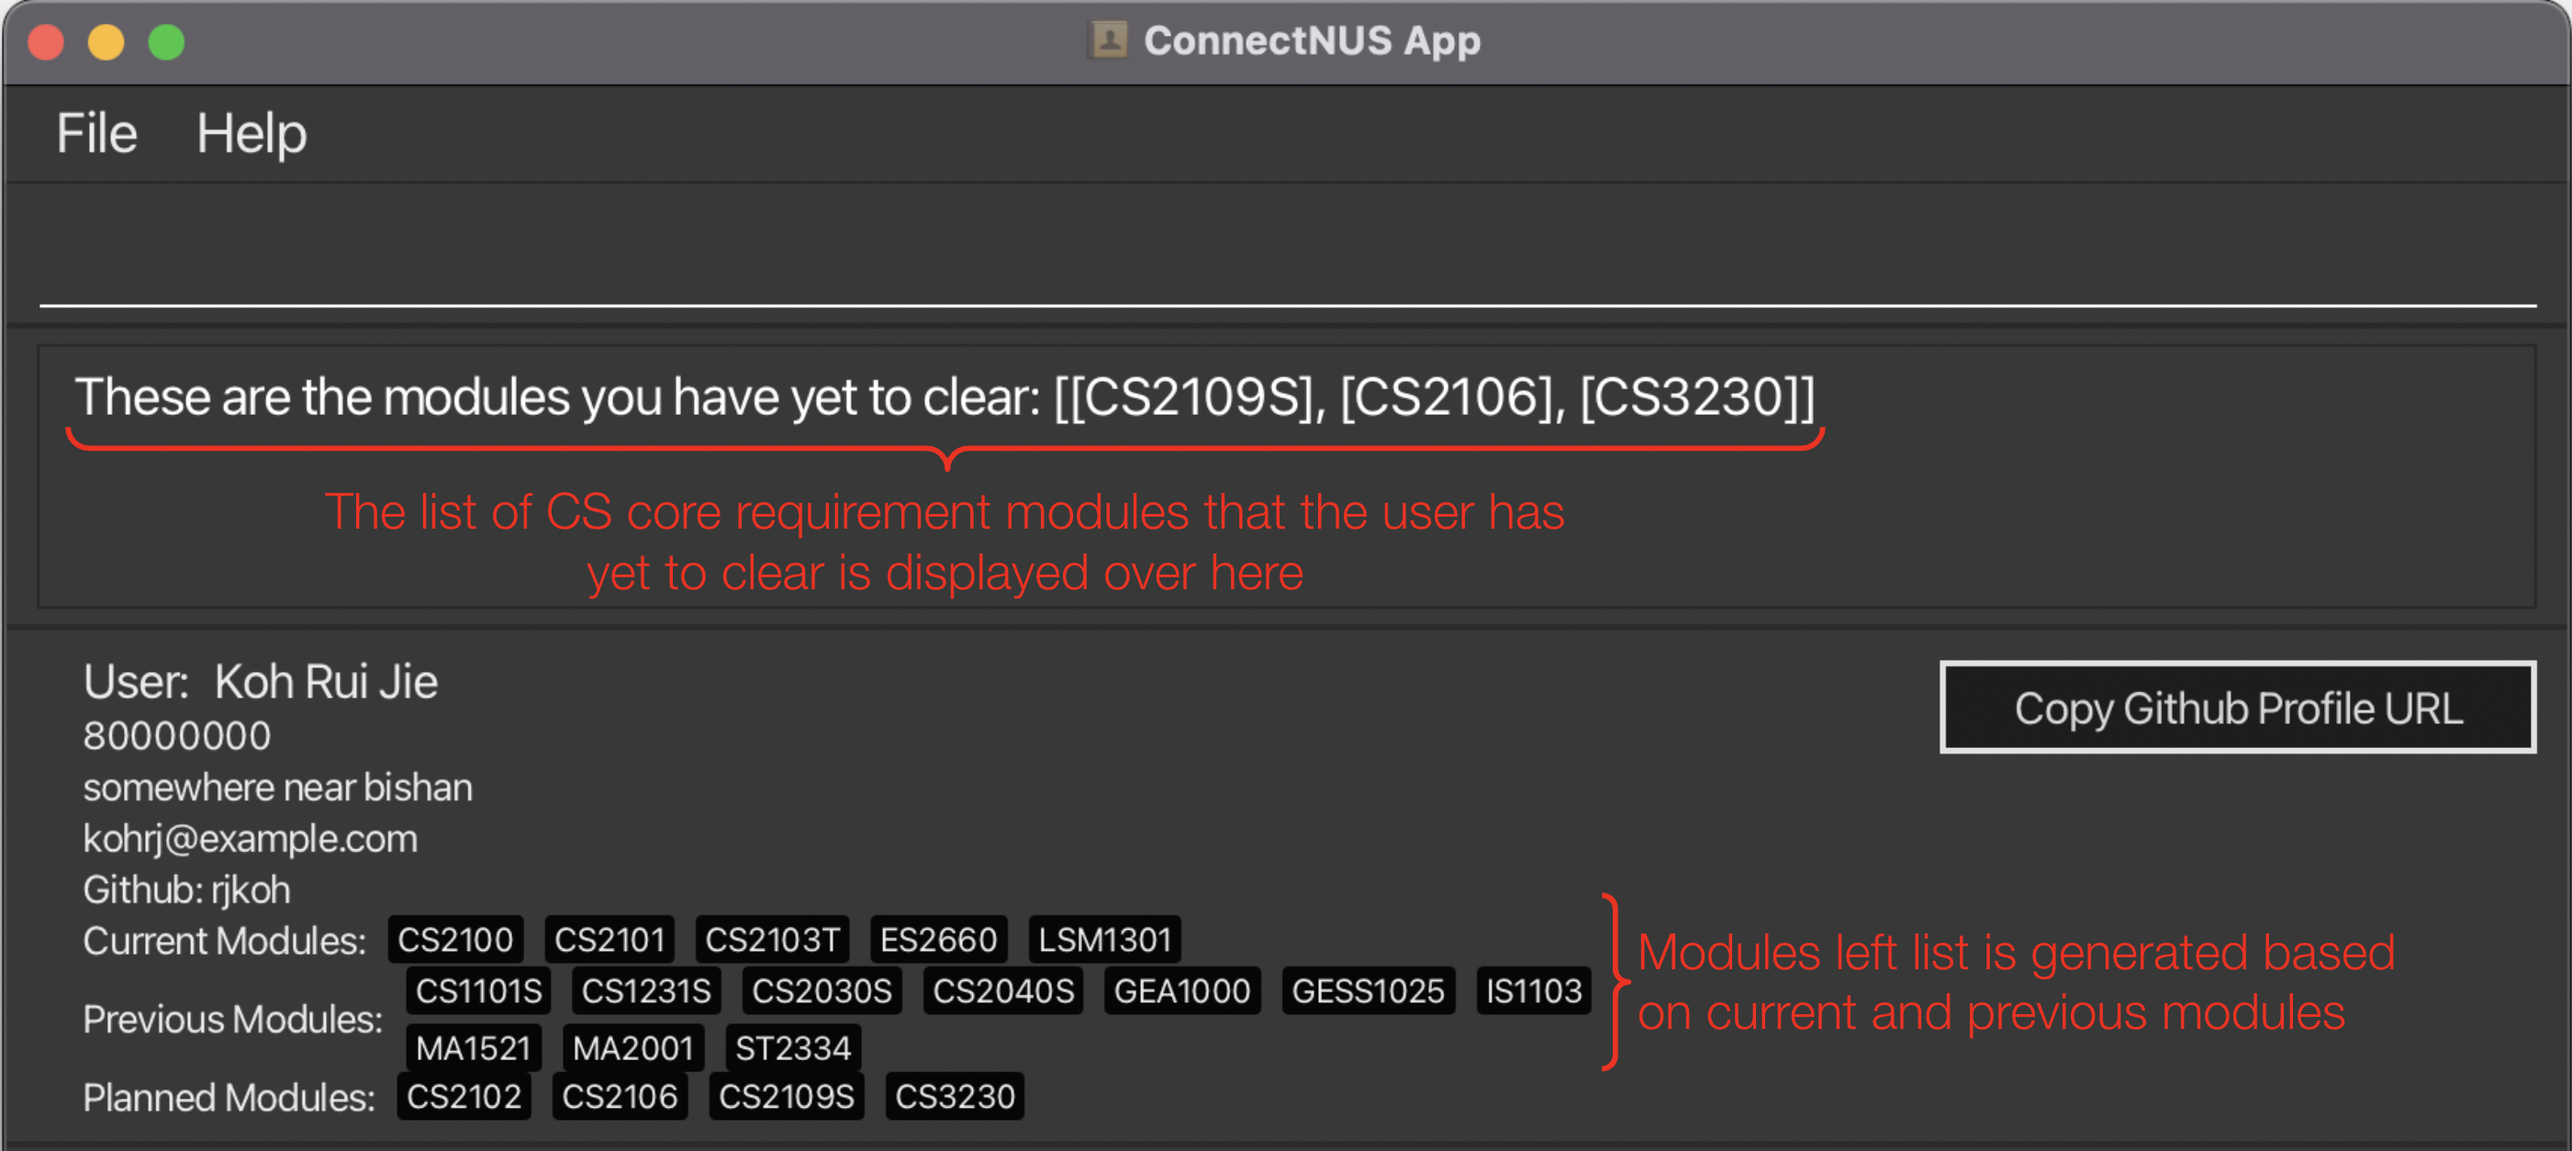
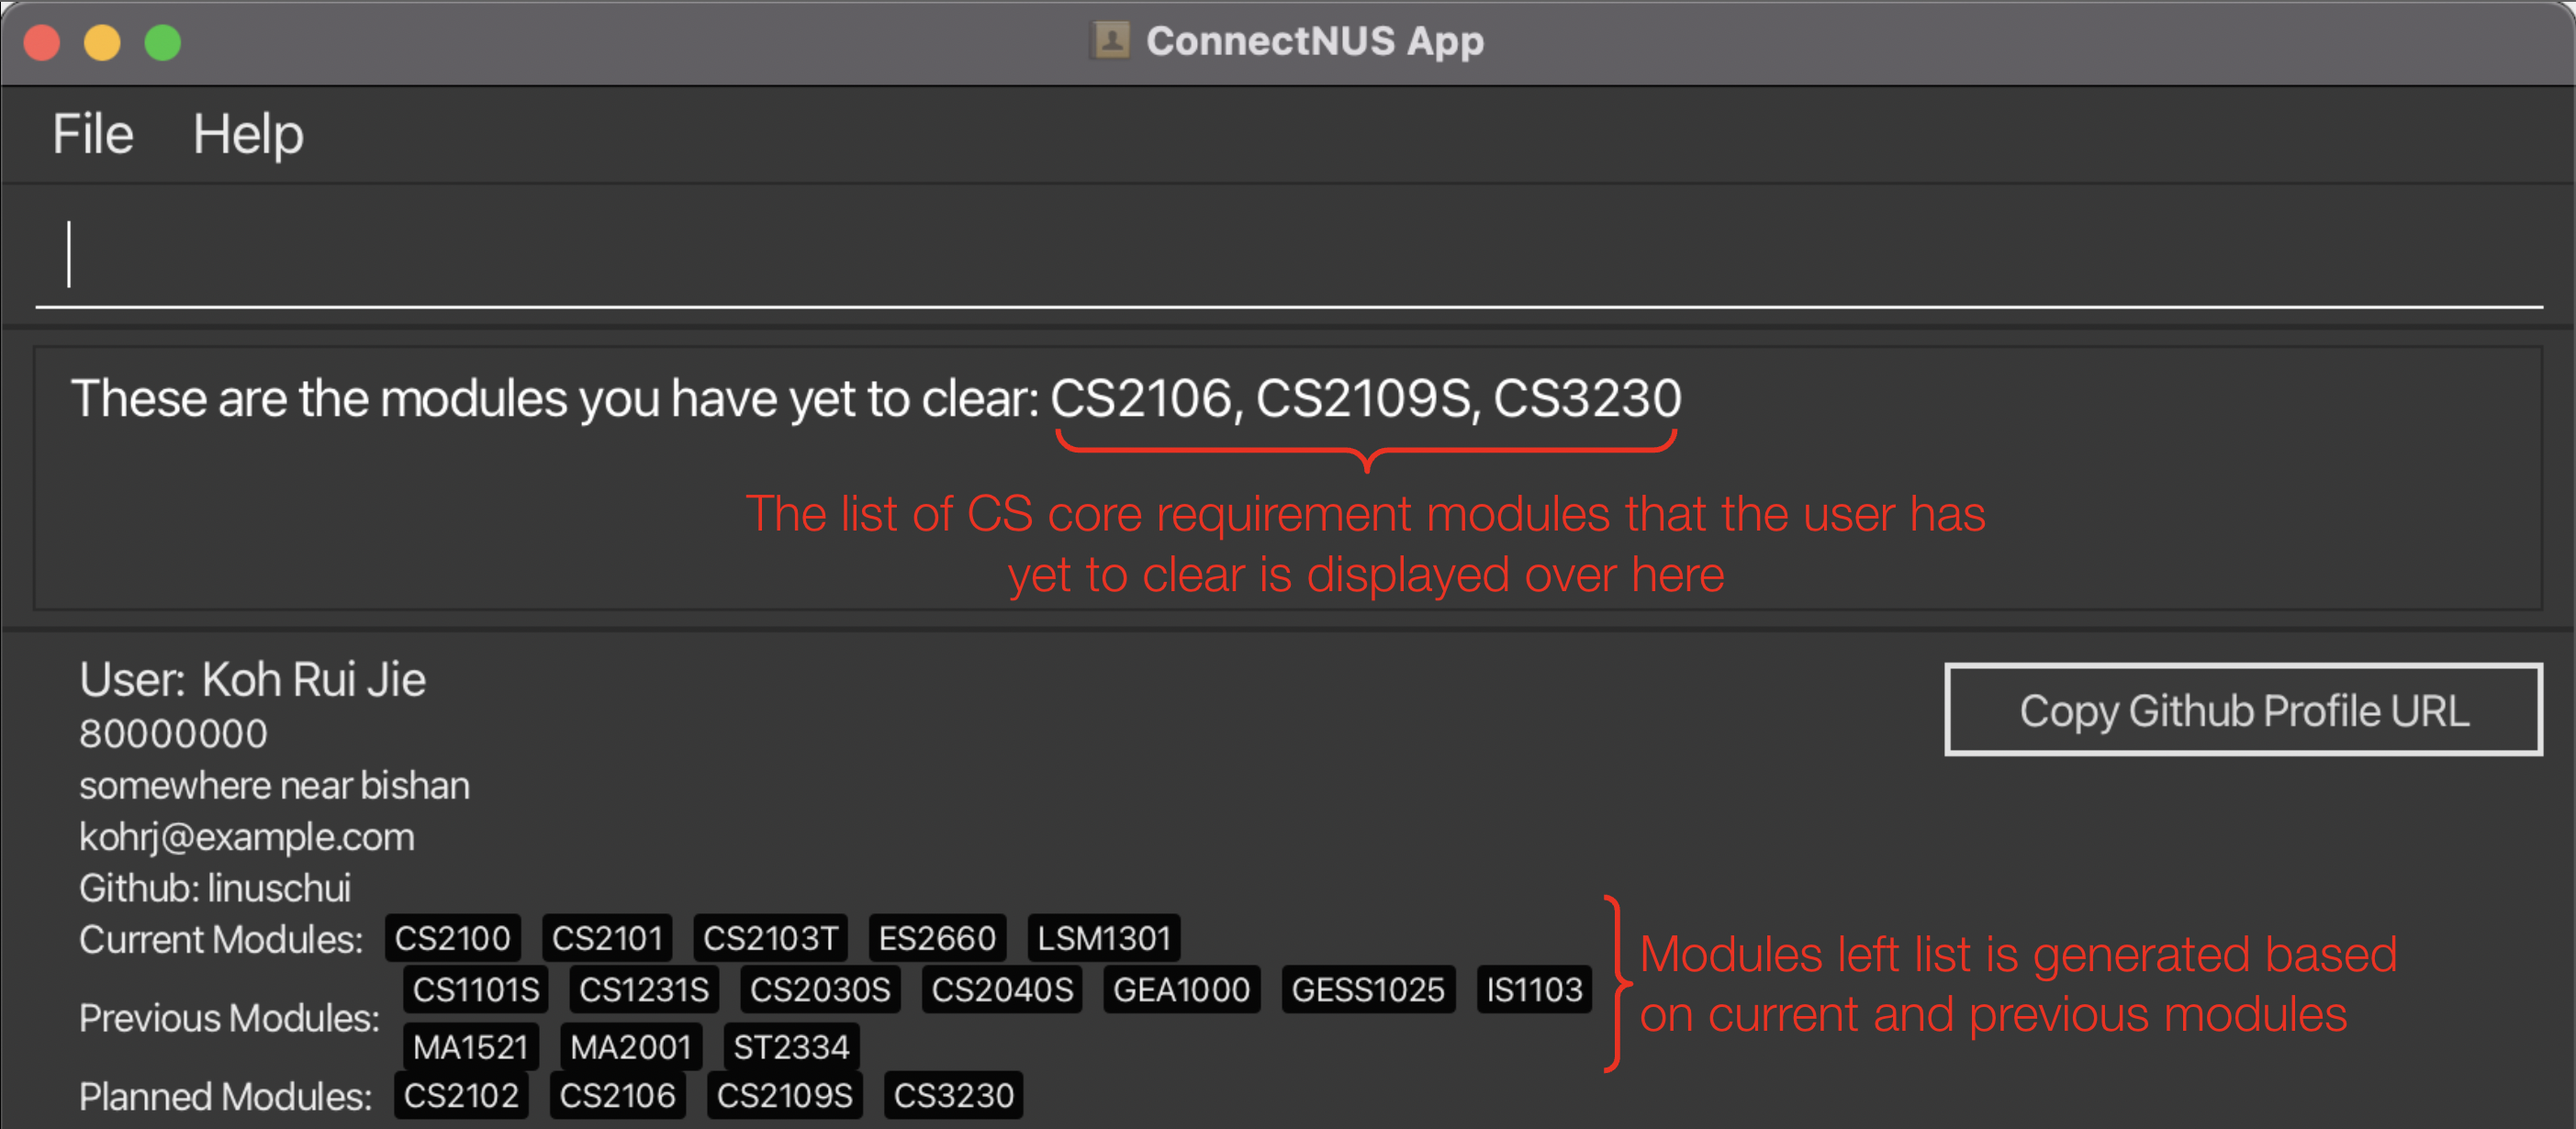
Fix ModulesLeftCommand to display modules alphabetically

diff --git a/src/test/java/seedu/address/logic/commands/ModulesLeftCommandTest.java b/src/test/java/seedu/address/logic/commands/ModulesLeftCommandTest.java
@@ -36,7 +36,8 @@ public class ModulesLeftCommandTest {
         Index index = Index.fromOneBased(1);
         ModulesLeftCommand modulesLeftCommand = new ModulesLeftCommand(index);
 
-        String expectedMessage = String.format(ModulesLeftCommand.MESSAGE_SUCCESS, expectedSet);
+        String expectedMessage = String.format(ModulesLeftCommand.MESSAGE_SUCCESS,
+                ModulesLeftCommand.moduleSetToString(expectedSet));
 
         ModelManager expectedModel = new ModelManager(model.getAddressBook(), new UserPrefs());
 
@@ -53,7 +54,8 @@ public class ModulesLeftCommandTest {
         Index index = Index.fromOneBased(2);
         ModulesLeftCommand modulesLeftCommand = new ModulesLeftCommand(index);
 
-        String expectedMessage = String.format(ModulesLeftCommand.MESSAGE_SUCCESS, expectedSet);
+        String expectedMessage = String.format(ModulesLeftCommand.MESSAGE_SUCCESS,
+                ModulesLeftCommand.moduleSetToString(expectedSet));
 
         ModelManager expectedModel = new ModelManager(model.getAddressBook(), new UserPrefs());
 
@@ -71,7 +73,8 @@ public class ModulesLeftCommandTest {
         Index index = Index.fromOneBased(3);
         ModulesLeftCommand modulesLeftCommand = new ModulesLeftCommand(index);
 
-        String expectedMessage = String.format(ModulesLeftCommand.MESSAGE_SUCCESS, expectedSet);
+        String expectedMessage = String.format(ModulesLeftCommand.MESSAGE_SUCCESS,
+                ModulesLeftCommand.moduleSetToString(expectedSet));
 
         ModelManager expectedModel = new ModelManager(model.getAddressBook(), new UserPrefs());
 
@@ -88,7 +91,8 @@ public class ModulesLeftCommandTest {
         Index index = Index.fromOneBased(4);
         ModulesLeftCommand modulesLeftCommand = new ModulesLeftCommand(index);
 
-        String expectedMessage = String.format(ModulesLeftCommand.MESSAGE_SUCCESS, expectedSet);
+        String expectedMessage = String.format(ModulesLeftCommand.MESSAGE_SUCCESS,
+                ModulesLeftCommand.moduleSetToString(expectedSet));
 
         ModelManager expectedModel = new ModelManager(model.getAddressBook(), new UserPrefs());
 
@@ -105,45 +109,49 @@ public class ModulesLeftCommandTest {
         Index index = Index.fromOneBased(5);
         ModulesLeftCommand modulesLeftCommand = new ModulesLeftCommand(index);
 
-        String expectedMessage = String.format(ModulesLeftCommand.MESSAGE_SUCCESS, expectedSet);
+        String expectedMessage = String.format(ModulesLeftCommand.MESSAGE_SUCCESS,
+                ModulesLeftCommand.moduleSetToString(expectedSet));
 
         ModelManager expectedModel = new ModelManager(model.getAddressBook(), new UserPrefs());
 
         assertCommandSuccess(modulesLeftCommand, model, expectedMessage, expectedModel);
     }
 
-    //    @Test
-    //    public void execute_dataModules_success() {
-    //        Set<Module> expectedSet = new HashSet<>();
-    //        String[] modStringArray = {"CS2102", "CS3223", "CS4221", "CS4224", "CS4225"};
-    //        for (String modString : modStringArray) {
-    //            expectedSet.add(new Module(modString));
-    //        }
-    //        Index index = Index.fromOneBased(6);
-    //        ModulesLeftCommand modulesLeftCommand = new ModulesLeftCommand(index);
-    //
-    //        String expectedMessage = String.format(ModulesLeftCommand.MESSAGE_SUCCESS, expectedSet);
-    //
-    //        ModelManager expectedModel = new ModelManager(model.getAddressBook(), new UserPrefs());
-    //
-    //        assertCommandSuccess(modulesLeftCommand, model, expectedMessage, expectedModel);
-    //    }
-    //
-    //    @Test
-    //    public void execute_infoModules_success() {
-    //        Set<Module> expectedSet = new HashSet<>();
-    //        String[] modStringArray = {"CS2108", "CS3245", "CS4242", "CS4248", "CS4347"};
-    //        for (String modString : modStringArray) {
-    //            expectedSet.add(new Module(modString));
-    //        }
-    //        Index index = Index.fromOneBased(7);
-    //        ModulesLeftCommand modulesLeftCommand = new ModulesLeftCommand(index);
-    //
-    //        String expectedMessage = String.format(ModulesLeftCommand.MESSAGE_SUCCESS, expectedSet);
-    //
-    //        ModelManager expectedModel = new ModelManager(model.getAddressBook(), new UserPrefs());
-    //
-    //        assertCommandSuccess(modulesLeftCommand, model, expectedMessage, expectedModel); }
+    @Test
+    public void execute_dataModules_success() {
+        Set<Module> expectedSet = new HashSet<>();
+        String[] modStringArray = {"CS2102", "CS3223", "CS4221", "CS4224", "CS4225"};
+        for (String modString : modStringArray) {
+            expectedSet.add(new Module(modString));
+        }
+        Index index = Index.fromOneBased(6);
+        ModulesLeftCommand modulesLeftCommand = new ModulesLeftCommand(index);
+
+        String expectedMessage = String.format(ModulesLeftCommand.MESSAGE_SUCCESS,
+                ModulesLeftCommand.moduleSetToString(expectedSet));
+
+        ModelManager expectedModel = new ModelManager(model.getAddressBook(), new UserPrefs());
+
+        assertCommandSuccess(modulesLeftCommand, model, expectedMessage, expectedModel);
+    }
+
+    @Test
+    public void execute_infoModules_success() {
+        Set<Module> expectedSet = new HashSet<>();
+        String[] modStringArray = {"CS2108", "CS3245", "CS4242", "CS4248", "CS4347"};
+        for (String modString : modStringArray) {
+            expectedSet.add(new Module(modString));
+        }
+        Index index = Index.fromOneBased(7);
+        ModulesLeftCommand modulesLeftCommand = new ModulesLeftCommand(index);
+
+        String expectedMessage = String.format(ModulesLeftCommand.MESSAGE_SUCCESS,
+                ModulesLeftCommand.moduleSetToString(expectedSet));
+
+        ModelManager expectedModel = new ModelManager(model.getAddressBook(), new UserPrefs());
+
+        assertCommandSuccess(modulesLeftCommand, model, expectedMessage, expectedModel);
+    }
 
     @Test
     public void execute_networkModules_success() {
@@ -155,7 +163,8 @@ public class ModulesLeftCommandTest {
         Index index = Index.fromOneBased(8);
         ModulesLeftCommand modulesLeftCommand = new ModulesLeftCommand(index);
 
-        String expectedMessage = String.format(ModulesLeftCommand.MESSAGE_SUCCESS, expectedSet);
+        String expectedMessage = String.format(ModulesLeftCommand.MESSAGE_SUCCESS,
+                ModulesLeftCommand.moduleSetToString(expectedSet));
 
         ModelManager expectedModel = new ModelManager(model.getAddressBook(), new UserPrefs());
 
@@ -172,29 +181,31 @@ public class ModulesLeftCommandTest {
         Index index = Index.fromOneBased(9);
         ModulesLeftCommand modulesLeftCommand = new ModulesLeftCommand(index);
 
-        String expectedMessage = String.format(ModulesLeftCommand.MESSAGE_SUCCESS, expectedSet);
+        String expectedMessage = String.format(ModulesLeftCommand.MESSAGE_SUCCESS,
+                ModulesLeftCommand.moduleSetToString(expectedSet));
 
         ModelManager expectedModel = new ModelManager(model.getAddressBook(), new UserPrefs());
 
         assertCommandSuccess(modulesLeftCommand, model, expectedMessage, expectedModel);
     }
 
-    //    @Test
-    //    public void execute_languagesModules_success() {
-    //        Set<Module> expectedSet = new HashSet<>();
-    //        String[] modStringArray = {"CS2104", "CS3211", "CS4212", "CS4215"};
-    //        for (String modString : modStringArray) {
-    //            expectedSet.add(new Module(modString));
-    //        }
-    //        Index index = Index.fromOneBased(10);
-    //        ModulesLeftCommand modulesLeftCommand = new ModulesLeftCommand(index);
-    //
-    //        String expectedMessage = String.format(ModulesLeftCommand.MESSAGE_SUCCESS, expectedSet);
-    //
-    //        ModelManager expectedModel = new ModelManager(model.getAddressBook(), new UserPrefs());
-    //
-    //        assertCommandSuccess(modulesLeftCommand, model, expectedMessage, expectedModel);
-    //        }
+    @Test
+    public void execute_languagesModules_success() {
+        Set<Module> expectedSet = new HashSet<>();
+        String[] modStringArray = {"CS2104", "CS3211", "CS4212", "CS4215"};
+        for (String modString : modStringArray) {
+            expectedSet.add(new Module(modString));
+        }
+        Index index = Index.fromOneBased(10);
+        ModulesLeftCommand modulesLeftCommand = new ModulesLeftCommand(index);
+
+        String expectedMessage = String.format(ModulesLeftCommand.MESSAGE_SUCCESS,
+                ModulesLeftCommand.moduleSetToString(expectedSet));
+
+        ModelManager expectedModel = new ModelManager(model.getAddressBook(), new UserPrefs());
+
+        assertCommandSuccess(modulesLeftCommand, model, expectedMessage, expectedModel);
+    }
 
     @Test
     public void execute_sweModules_success() {
@@ -206,7 +217,8 @@ public class ModulesLeftCommandTest {
         Index index = Index.fromOneBased(11);
         ModulesLeftCommand modulesLeftCommand = new ModulesLeftCommand(index);
 
-        String expectedMessage = String.format(ModulesLeftCommand.MESSAGE_SUCCESS, expectedSet);
+        String expectedMessage = String.format(ModulesLeftCommand.MESSAGE_SUCCESS,
+                ModulesLeftCommand.moduleSetToString(expectedSet));
 
         ModelManager expectedModel = new ModelManager(model.getAddressBook(), new UserPrefs());
 

diff --git a/src/main/java/seedu/address/logic/commands/ModulesLeftCommand.java b/src/main/java/seedu/address/logic/commands/ModulesLeftCommand.java
@@ -2,6 +2,7 @@ package seedu.address.logic.commands;
 
 import static java.util.Objects.requireNonNull;
 
+import java.util.Arrays;
 import java.util.HashSet;
 import java.util.Set;
 
@@ -209,6 +210,28 @@ public class ModulesLeftCommand extends Command {
         }
     }
 
+    /**
+     * Converts the set of module {@code moduleSet} into a string to be output by the command
+     */
+    public static String moduleSetToString(Set<Module> moduleSet) {
+        StringBuilder result = new StringBuilder();
+        String[] array = new String[moduleSet.size()];
+        int j = 0;
+        for (Module module : moduleSet) {
+            array[j] = module.moduleName;
+            j++;
+        }
+        Arrays.sort(array);
+        for (int i = 0; i < array.length; i++) {
+            if (i == 0) {
+                result.append(array[i]);
+            } else {
+                result.append(", " + array[i]);
+            }
+        }
+        return result.toString();
+    }
+
     @Override
     public CommandResult execute(Model model) throws CommandException {
         requireNonNull(model);
@@ -228,7 +251,7 @@ public class ModulesLeftCommand extends Command {
         modulesLeft.removeAll(userPrevMods);
         modulesLeft.removeAll(userCurrMods);
 
-        return new CommandResult(String.format(MESSAGE_SUCCESS, modulesLeft));
+        return new CommandResult(String.format(MESSAGE_SUCCESS, moduleSetToString(modulesLeft)));
     }
 
     @Override
